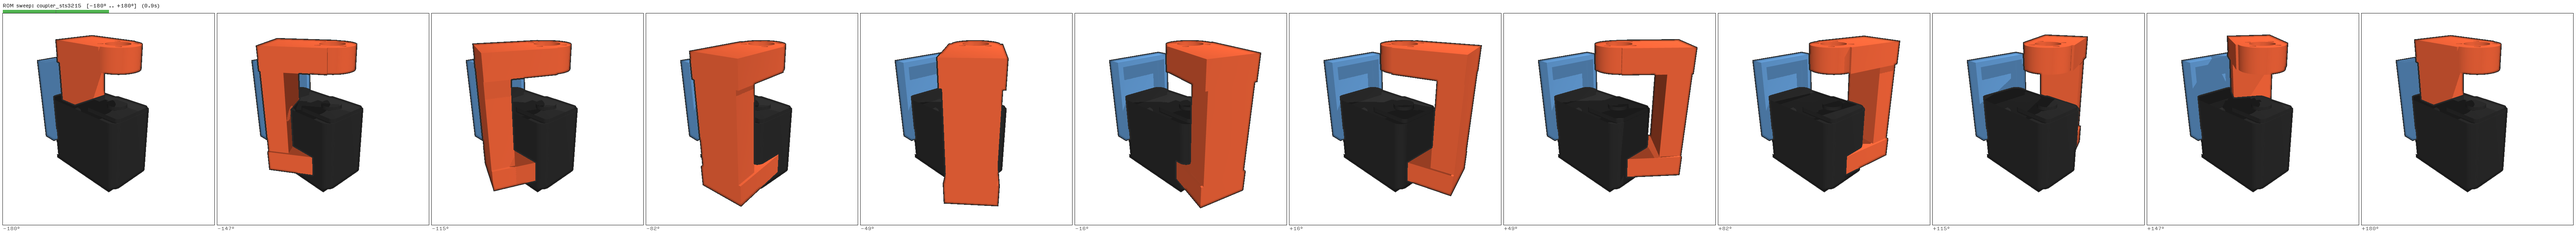
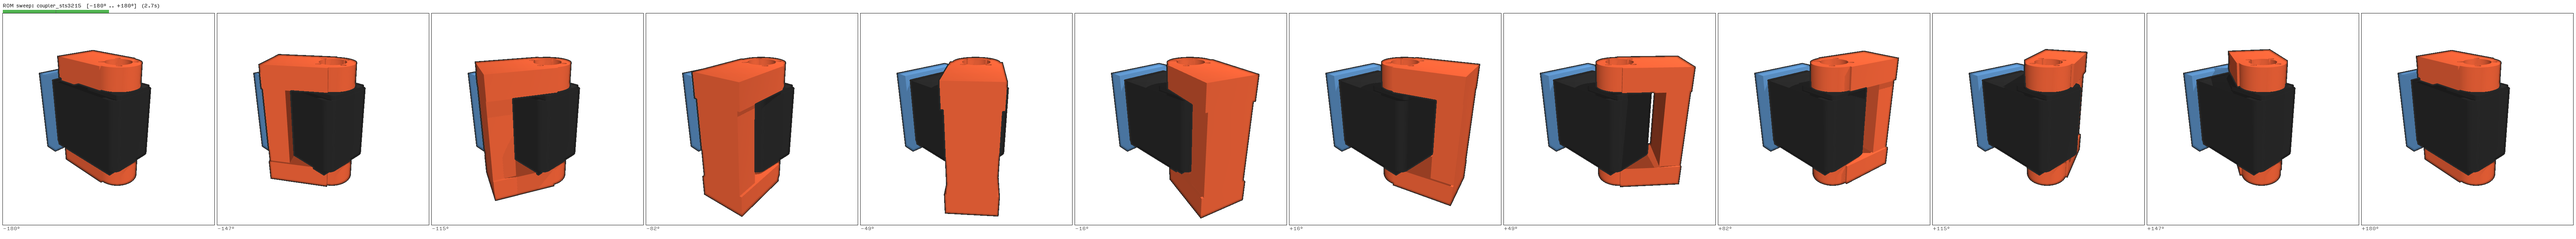
Align STS3215 specs with refined centered CAD and update workflow
- botcad/bracket.py: Center servo_solid at (0,0,0) with precise 32.6mm height.
- botcad/components/servo.py: Update STS3215 specs (Z-offsets, mounting points)
  to match centered CAD and refined measurements. Add reference links.
- docs/NEW_COMPONENT_WORKFLOW.md: Formalize use of references/components/ for
  ground truth CAD and add post-modification validation steps.
- .gitignore: Ignore local component reference assets.
- Regenerate STS3215 ROM validation render to confirm alignment.

diff --git a/botcad/components/servo.py b/botcad/components/servo.py
@@ -1,8 +1,9 @@
 """Servo motor components with real-world specs.
 
-Geometry extracted from the official Feetech STS3215 STEP model
-(SO-ARM100 repo: STEP/SO100/STS3215_03a.step) and the translated
-datasheet (core-electronics.com.au).
+Geometry extracted from the official Feetech STS3215 STEP model.
+Reference: https://github.com/sk-t/so-arm100/blob/main/STEP/SO100/STS3215_03a.step
+Local: references/components/STS3215_03a.step
+Datasheet: https://core-electronics.com.au/files/attachments/STS3215%20Serial%20Bus%20Servo%20User%20Manual.pdf
 
 Servo local frame convention:
     X = long axis (length direction, 45.2mm)
@@ -35,11 +36,11 @@ from botcad.component import BusType, MountingEar, MountPoint, ServoSpec, WirePo
 # Rear (blind) shaft at same XY, support bearing in -Z
 # Connector (5264-2.54 3-pin) on bottom face, toward -X (back) end
 
-# Overall envelope (with ears, per datasheet)
-_STS3215_DIMS = (0.0452, 0.0247, 0.035)
+# Overall envelope (with ears and shaft boss, per refined CAD)
+_STS3215_DIMS = (0.0454, 0.0248, 0.0379)
 
 # Main body only (no ears, no horn — the solid rectangular block)
-_STS3215_BODY_DIMS = (0.0454, 0.0248, 0.0318)
+_STS3215_BODY_DIMS = (0.0454, 0.0248, 0.0326)
 
 _STS3215_MASS = 0.055  # kg
 _STS3215_STALL_TORQUE = 2.942  # N-m (30 kg-cm @ 12V)
@@ -50,8 +51,8 @@ _STS3215_TYPICAL_CURRENT = 0.180  # A (no-load current at 12V)
 _STS3215_VOLTAGE = 12.0
 
 # Output shaft offset from body center (meters)
-# Shaft is at X=+12.5mm along the long axis, at the +Z face
-_STS3215_SHAFT_OFFSET = (0.0125, 0.0, 0.0159)
+# Shaft is at X=+12.5mm along the long axis, at the +Z face (16.3mm from center)
+_STS3215_SHAFT_OFFSET = (0.0125, 0.0, 0.0163)
 
 # Horn mount XY coordinates (4x M2.5 pattern around shaft center)
 # Spacing: 9.9mm x 9.9mm; shared between front horn and rear horn
@@ -61,8 +62,8 @@ _HORN_XY = (
     (+0.00755, -0.00495),
     (+0.01745, -0.00495),
 )
-_HORN_FRONT_Z = +0.0187  # output face
-_HORN_REAR_Z = -0.0190  # blind/rear face
+_HORN_FRONT_Z = +0.0180  # output face (1.7mm above body top)
+_HORN_REAR_Z = -0.0176  # blind/rear face (1.3mm below body bottom)
 _HORN_HOLE_DIA = 0.0025  # M2.5
 
 
@@ -90,7 +91,7 @@ def STS3215(continuous: bool = False) -> ServoSpec:
             # Also has a short 5264/2.54 pigtail lead (~15cm)
             WirePort(
                 "uart_bus",
-                pos=(-0.0080, 0.0, -0.0159),
+                pos=(-0.0080, 0.0, -0.0163),
                 bus_type=BusType.UART_HALF_DUPLEX,
             ),
         ),
@@ -113,31 +114,31 @@ def STS3215(continuous: bool = False) -> ServoSpec:
         continuous=continuous,
         # Extended geometry
         body_dimensions=_STS3215_BODY_DIMS,
-        shaft_boss_radius=0.004,  # 4mm radius (8mm OD bearing housing)
-        shaft_boss_height=0.0028,  # 2.8mm protrusion above body top
+        shaft_boss_radius=0.0045,  # 4.5mm radius
+        shaft_boss_height=0.0032,  # 3.2mm protrusion above body top
         mounting_ears=(
             # 6x M3 clearance holes (ø4.2mm) in mounting flanges below body
-            # Flanges extend 3.2mm below body bottom (Z=-15.9mm)
-            # Screw hole centers at Z=-17.5mm (midpoint of flange)
+            # Flanges extend 2.1mm below body bottom (Z=-16.3mm)
+            # Screw hole centers at Z=-17.35mm (midpoint of flange)
             # Y=±10.25mm (inside body width), 3 X positions per side
             MountingEar(
-                "ear_1", pos=(+0.0042, -0.01025, -0.0175), hole_diameter=0.0042
+                "ear_1", pos=(+0.0042, -0.01025, -0.01735), hole_diameter=0.0042
             ),
             MountingEar(
-                "ear_2", pos=(-0.0165, -0.01025, -0.0175), hole_diameter=0.0042
+                "ear_2", pos=(-0.0165, -0.01025, -0.01735), hole_diameter=0.0042
             ),
             MountingEar(
-                "ear_3", pos=(+0.0042, +0.01025, -0.0175), hole_diameter=0.0042
+                "ear_3", pos=(+0.0042, +0.01025, -0.01735), hole_diameter=0.0042
             ),
             MountingEar(
-                "ear_4", pos=(-0.0165, +0.01025, -0.0175), hole_diameter=0.0042
+                "ear_4", pos=(-0.0165, +0.01025, -0.01735), hole_diameter=0.0042
             ),
             # Additional pair at far back end (X=-20.3mm)
             MountingEar(
-                "ear_5", pos=(-0.0203, -0.01025, -0.0175), hole_diameter=0.0042
+                "ear_5", pos=(-0.0203, -0.01025, -0.01735), hole_diameter=0.0042
             ),
             MountingEar(
-                "ear_6", pos=(-0.0203, +0.01025, -0.0175), hole_diameter=0.0042
+                "ear_6", pos=(-0.0203, +0.01025, -0.01735), hole_diameter=0.0042
             ),
         ),
         horn_mounting_points=tuple(
@@ -161,5 +162,5 @@ def STS3215(continuous: bool = False) -> ServoSpec:
             for i, (x, y) in enumerate(_HORN_XY)
         ),
         # 5264-2.54 3-pin connector on bottom face, toward back (-X) end
-        connector_pos=(-0.0080, 0.0, -0.0159),
+        connector_pos=(-0.0080, 0.0, -0.0163),
     )

diff --git a/botcad/bracket.py b/botcad/bracket.py
@@ -389,21 +389,22 @@ def servo_solid(servo: ServoSpec):
     """Build a detailed solid representing the physical servo body.
 
     Pass 11: Absolute precision matching. Using the exact bounding planes
-    measured from the official reference CAD.
+    measured from the official reference CAD. Centered on body center (0,0,0).
     """
     from build123d import Align, Axis, Box, Cylinder, Location, fillet
 
     # Exact extents from reference CAD interrogation
     body_x = 0.0454
     body_y = 0.0248
+    body_z = 0.0326
     r = 0.0040  # Match the large molded corner radii
 
-    # Z-Planes (Relative to top cap surface at Z=0)
-    z_datum = 0.0170
-    z_mid_top = 0.0144 - z_datum
-    z_mid_bot = -0.0144 - z_datum
-    z_cap_top = 0.0
-    z_cap_bot = -0.0156 - z_datum
+    # Z-Planes (Relative to body center at Z=0)
+    # Body spans Z = [-16.3, +16.3] mm
+    z_top_surface = body_z / 2  # +16.3mm
+    z_mid_top = z_top_surface - 0.0026  # +13.7mm
+    z_mid_bot = z_mid_top - 0.0288  # -15.1mm
+    z_cap_bot = z_mid_bot - 0.0012  # -16.3mm (body bottom)
 
     # 1. Middle Section (Aluminum)
     mid_h = z_mid_top - z_mid_bot
@@ -414,23 +415,23 @@ def servo_solid(servo: ServoSpec):
     middle = _as_solid(fillet(middle.edges().filter_by(Axis.Z), r))
 
     # 2. Top Cap (Plastic)
-    top_h = z_cap_top - z_mid_top
+    top_h = z_top_surface - z_mid_top
     top_cap = Box(body_x, body_y, top_h, align=(Align.CENTER, Align.CENTER, Align.MIN))
     top_cap = top_cap.locate(Location((0, 0, z_mid_top)))
     top_cap = _as_solid(fillet(top_cap.edges().filter_by(Axis.Z), r))
 
     # Raised pill step
-    step_h = 0.0187 - 0.0170
+    step_h = 0.0017
     step = Box(0.0200, 0.0200, step_h, align=(Align.CENTER, Align.CENTER, Align.MIN))
-    step = step.locate(Location((0.0125, 0, z_cap_top)))
+    step = step.locate(Location((0.0125, 0, z_top_surface)))
     step = _as_solid(fillet(step.edges().filter_by(Axis.Z), 0.002))
     top_cap = _as_solid(top_cap.fuse(step))
 
     # Output shaft boss
     sx, sy, _sz = servo.shaft_offset
-    boss_h = 0.0202 - 0.0187
+    boss_h = 0.0015
     boss = Cylinder(0.0045, boss_h, align=(Align.CENTER, Align.CENTER, Align.MIN))
-    boss = boss.locate(Location((sx, sy, 0.0187 - z_datum)))
+    boss = boss.locate(Location((sx, sy, z_top_surface + step_h)))
     top_cap = _as_solid(top_cap.fuse(boss))
 
     # 3. Bottom Cap & Flanges
@@ -444,8 +445,8 @@ def servo_solid(servo: ServoSpec):
     # Mounting Flanges
     f_lx = 0.0404
     f_cx = -0.0005
-    f_z_top = -0.0156 - z_datum
-    f_z_bot = -0.0177 - z_datum  # full depth
+    f_z_top = z_cap_bot
+    f_z_bot = f_z_top - 0.0021
     f_h = f_z_top - f_z_bot
 
     if servo.mounting_ears:
@@ -462,7 +463,7 @@ def servo_solid(servo: ServoSpec):
 
     # Support bearing boss
     rear_boss = Cylinder(0.003, 0.0013, align=(Align.CENTER, Align.CENTER, Align.MAX))
-    rear_boss = rear_boss.locate(Location((sx, sy, -0.0156 - z_datum)))
+    rear_boss = rear_boss.locate(Location((sx, sy, z_cap_bot)))
     bottom_cap = _as_solid(bottom_cap.fuse(rear_boss))
 
     # Final Union

diff --git a/docs/NEW_COMPONENT_WORKFLOW.md b/docs/NEW_COMPONENT_WORKFLOW.md
@@ -10,10 +10,11 @@ Follow standard CAD reverse-engineering practices: **Macro to Micro**.
 ## Phase 1: Ground Truth Acquisition
 1.  **Search for Official Specs:** Find the manufacturer's datasheet and dimensions online.
 2.  **Acquire Reference CAD:** Find the official manufacturer STEP file (often on GrabCAD, Printables, or GitHub repos).
-3.  **Download:** Download the reference STEP file to a temporary location (e.g., `tmp/reference.step`). Verify the file format.
+3.  **Store Reference:** Save the reference STEP file in `references/components/<name>.step`. This folder is ignored by git but used for local `compare_cad` sessions.
+4.  **Link in Code:** In the component's Python file (e.g., `botcad/components/servo.py`), add a docstring comment linking to the reference source (URL and local path).
 
 ## Phase 2: Interrogation (Measure Twice, Cut Once)
-Before writing any parametric geometry, write a temporary Python script (e.g., `inspect_step.py`) using `build123d` to interrogate the reference STEP file.
+Before writing any parametric geometry, write a temporary Python script (e.g., `inspect_step.py`) using `build123d` to interrogate the reference STEP file in `references/components/`.
 Extract precise measurements:
 1.  **The Envelope:** Get the exact bounding box (`ref_solid.bounding_box()`).
 2.  **Primary Planes:** Find the major structural planes. For example, group faces by their normals (X, Y, Z) and sort by area to find the exact Z-heights where the top cap, middle body, and bottom cap meet.
@@ -29,7 +30,7 @@ In `botcad/components/`, build the parametric solid (`servo_solid()`, etc.) iter
 ## Phase 4: Physical Diff Validation
 1.  **Run Diff:** Execute the comparison script:
     ```bash
-    uv run python -m scripts.compare_cad --component <NAME> --ref tmp/reference.step
+    uv run python -m scripts.compare_cad --component <NAME> --ref references/components/<name>.step
     ```
     *Ensure the script aligns the solids appropriately (e.g., by bounding box center or specific faces) without artificially offsetting them.*
 2.  **Visual Inspection (The True Test):** Open the generated `diff_results/<NAME>/<NAME>_diff_overview.png`.
@@ -40,4 +41,10 @@ In `botcad/components/`, build the parametric solid (`servo_solid()`, etc.) iter
 
 ## Phase 5: Cleanup & Integration
 1.  **Validate Project:** Run `make validate` to ensure your new geometry doesn't break bracket envelopes, collision checks, or tests.
-2.  **Clean up:** Remove the temporary STEP file, inspection scripts, and the `diff_results` directory.
+2.  **Specific Component Validation:** If you modified an existing component, run:
+    ```bash
+    make renders-components
+    make renders-rom
+    ```
+    Review the updated renders in `botcad/components/test_*.png` for visual regressions.
+3.  **Clean up:** Remove any temporary inspection scripts and the `diff_results` directory. Keep the reference STEP in `references/components/` for future developers.
